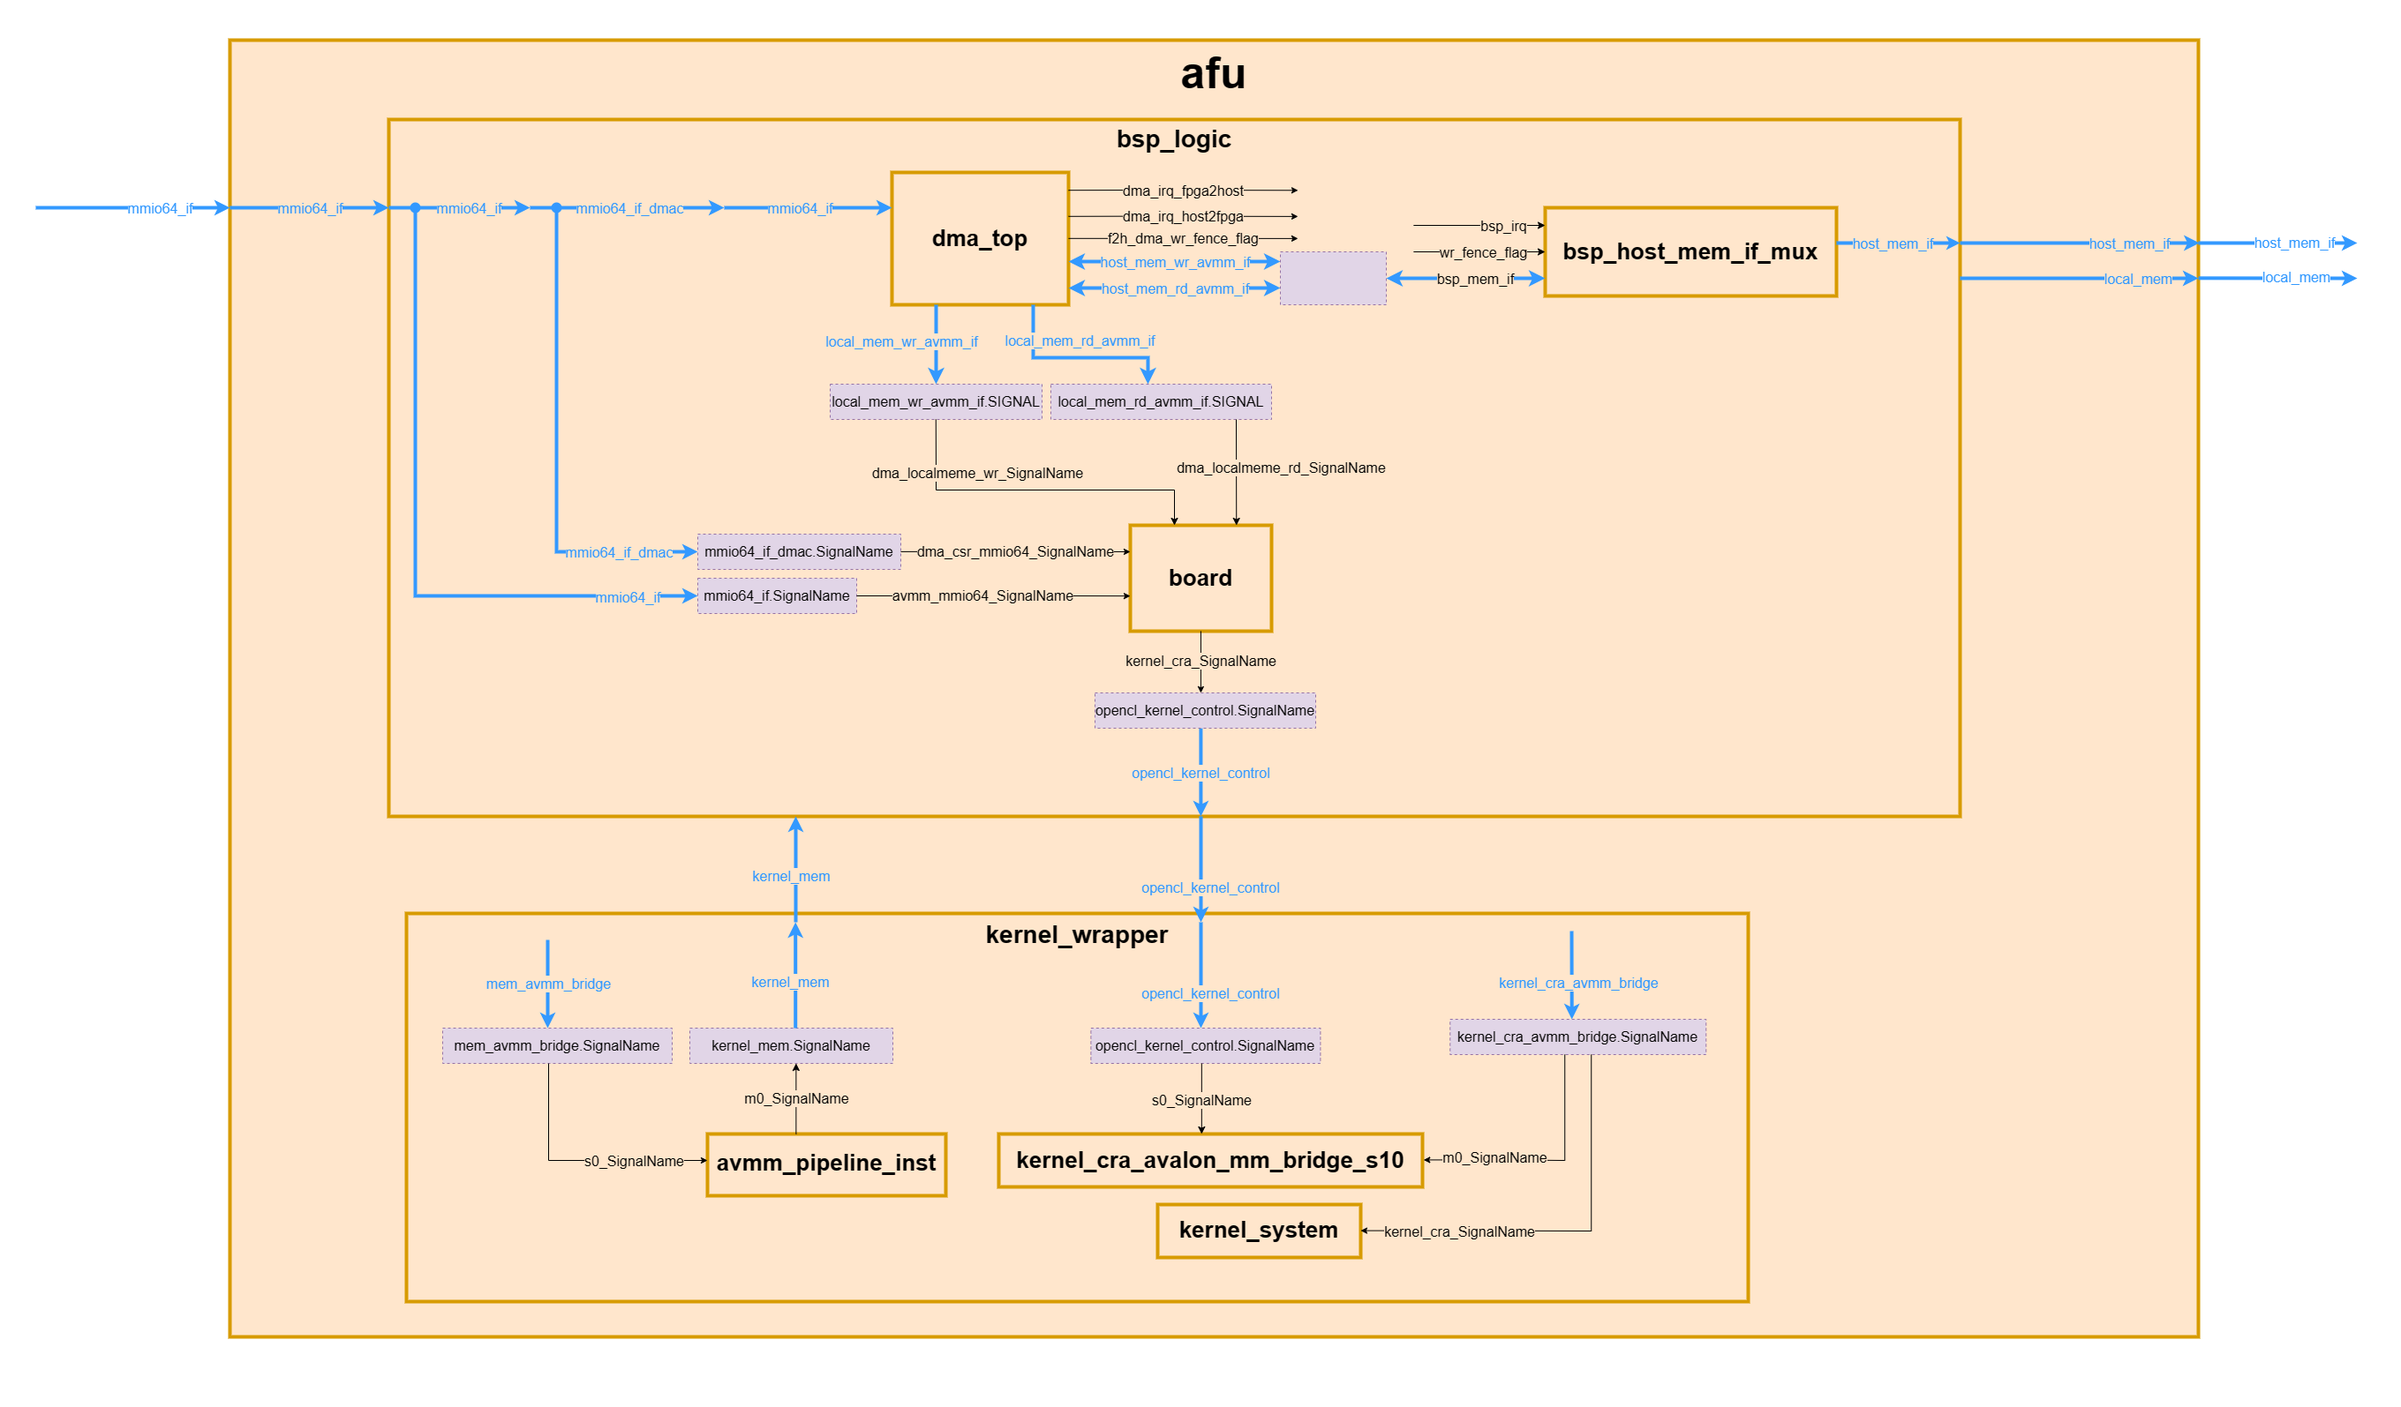
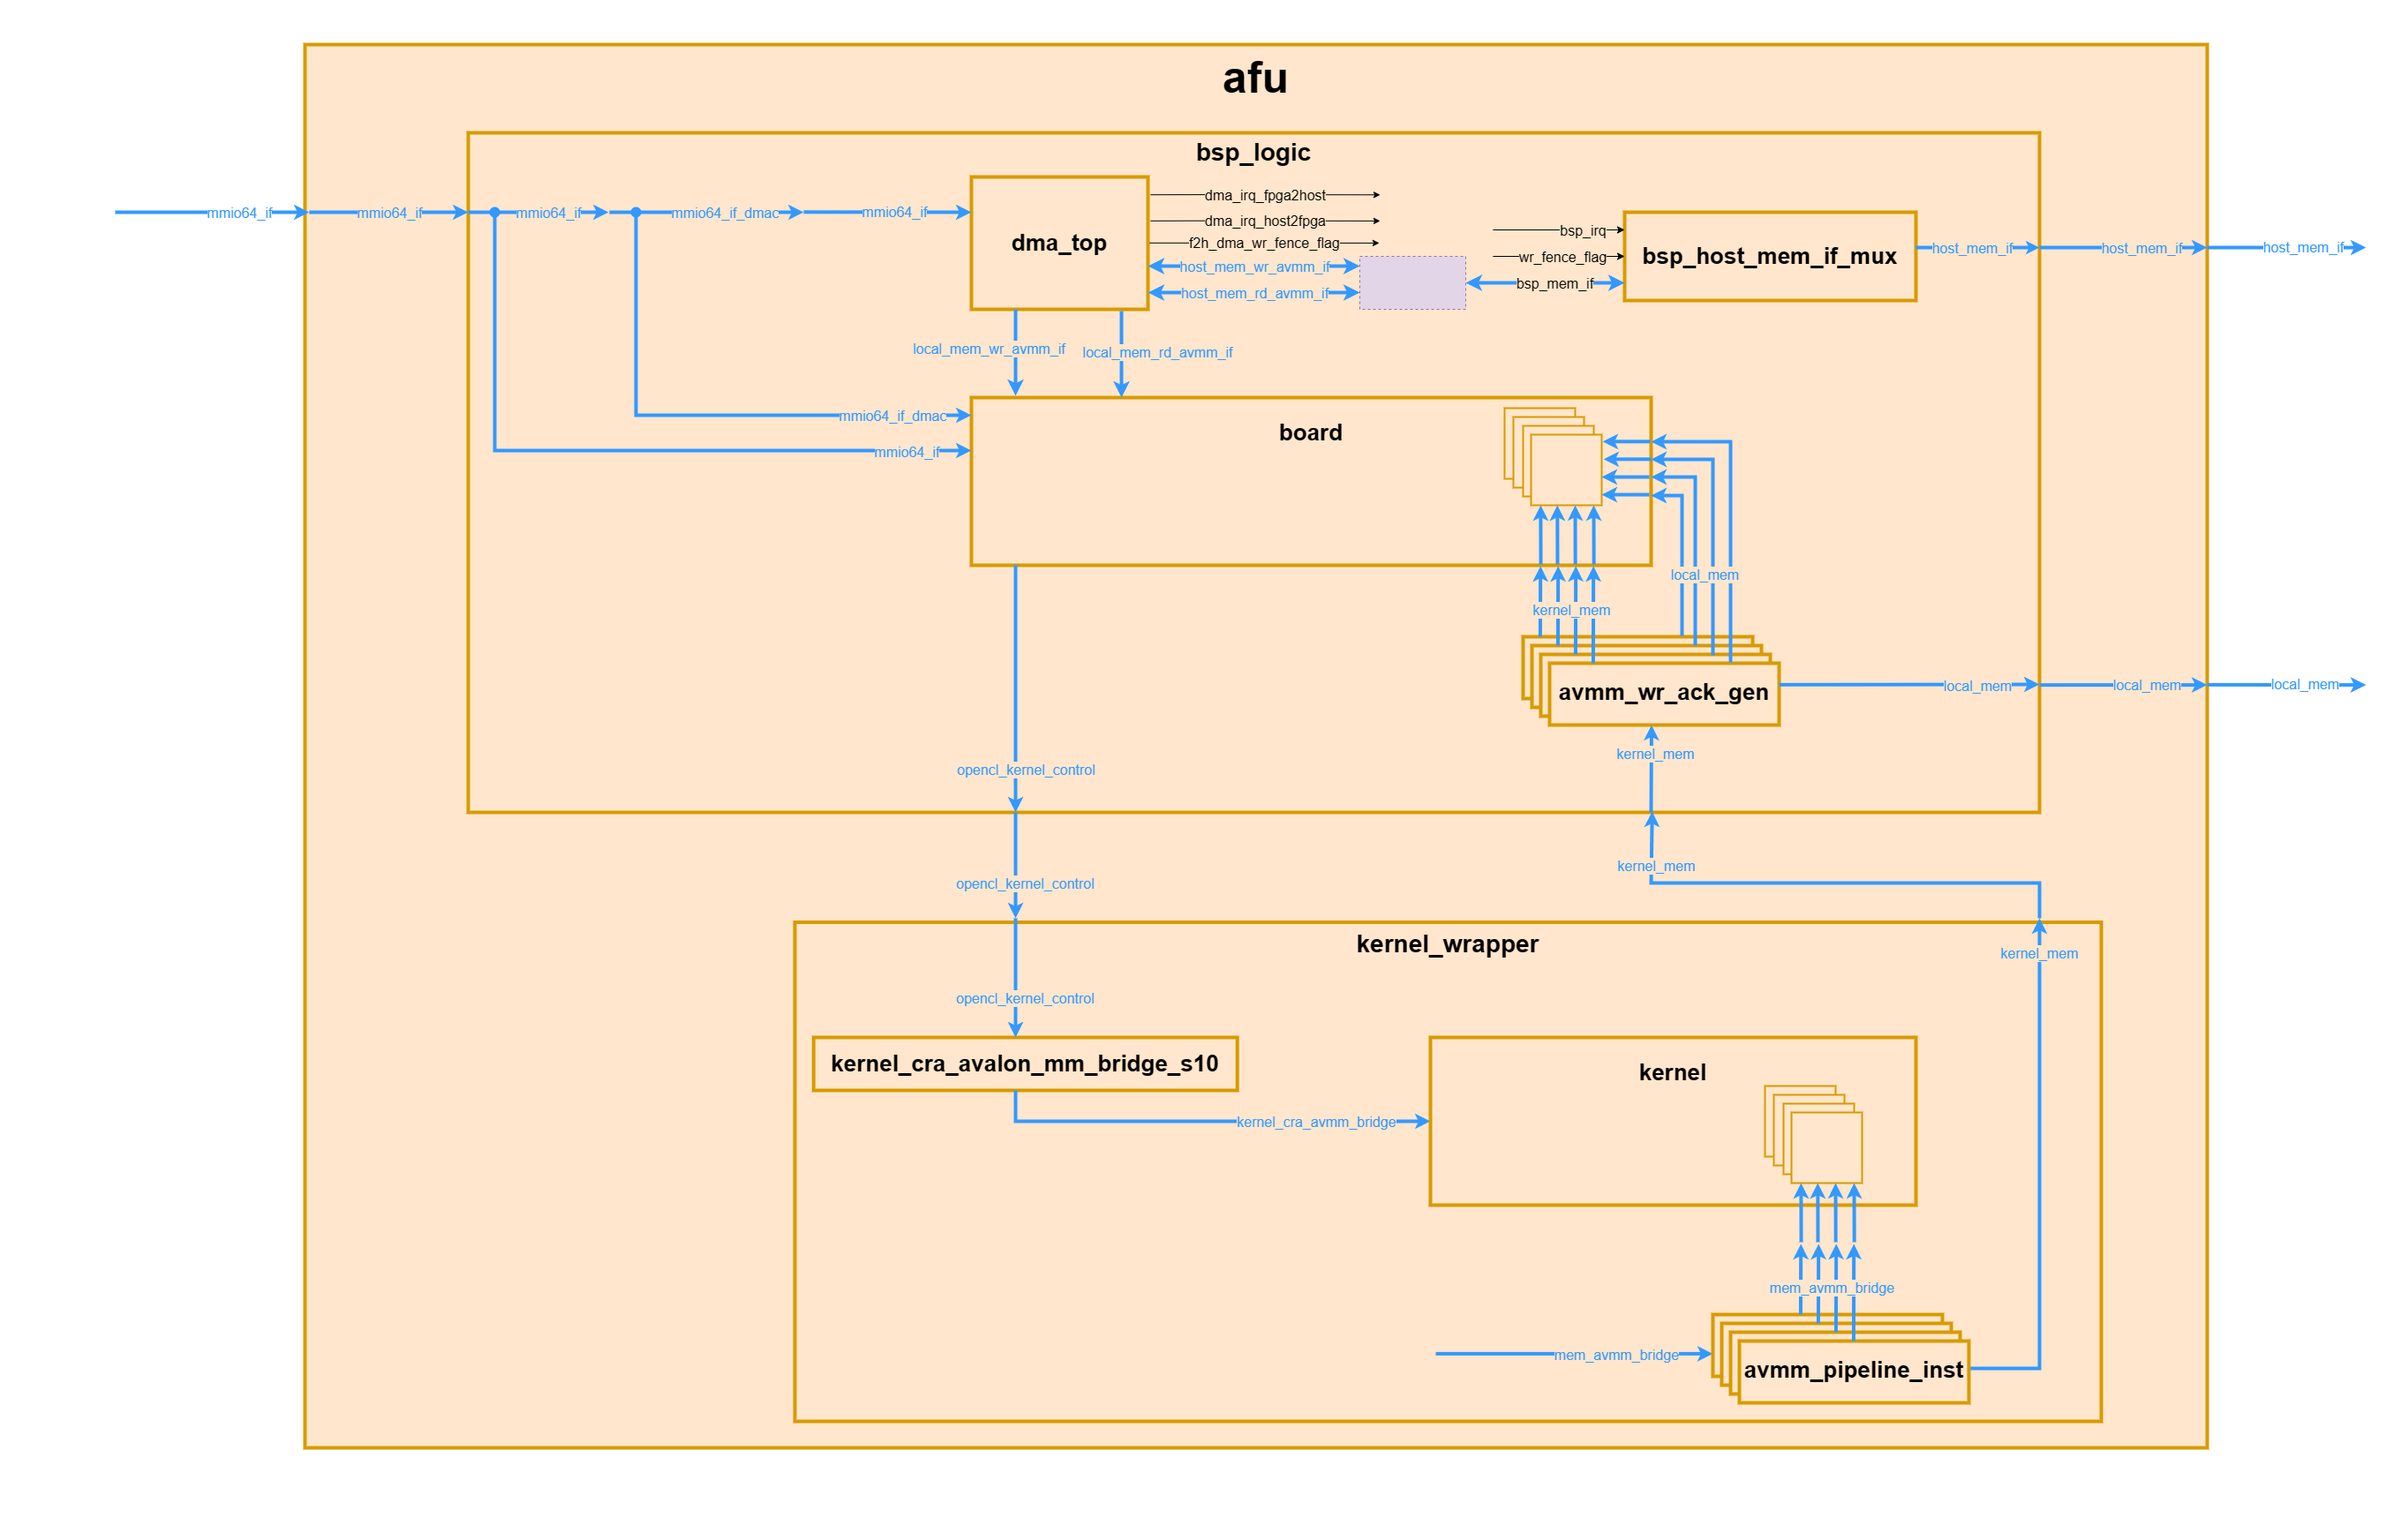
Update

Changed region(s): [[0.0312, 0.0, 1.0, 0.9831], [0.8438, 0.5837, 0.875, 0.6451]]

diff --git a/doc/arch_diagram.md b/doc/arch_diagram.md
@@ -7,6 +7,7 @@
   *  Il master ha sempre read, write, writedata e address come output per dire allo slave cosa fare, cosa scrivere ed a che indirizzo.
   * Lo slave ha come output sempre waitrequest, readdatavalid, readdata, writeresponsevalid per le risposte ai segnali di cui sopra.
 * In OFS e ASP, esiste una variante con "split read and write channel". Potresti trovare gli stessi segnali di un bus Avalon MM normale, ma replicati per due canali. Un canale di sola lettura (rd) e l'altro di sola scrittura (wr). Ovviamente il canale "rd" non avrà segnali per le scritture, e.g. write, writedata e writeresponsevalid, dato che non potrà usarli. Lo stesso vale per il canale "wr", che non avrà i segnali relativi alle scritture.
+* I prefissi s0 e m0 stanno esattamente per slave e master
 
 ## Diagram Legend
 * `Orange box`: Module
@@ -16,28 +17,20 @@
 * `Green box`: Module added with the #ifdef verification
 * `Green arrow`: Signal added with the #ifdef verification
 * `Thick green arrow`: Interface added with the #ifdef verification
-* `Dashed green box`:
 
-# ifdef Compilation Directive
-* INCLUDE_UDP_OFFLOAD_ENGINE
-* USE_MPF_VTP
-* INCLUDE_USM_SUPPORT
-* PAC_BSP_ENABLE_DDR4_BANKi
-* USE_KERNEL_IRQ
+## #ifdef Compilation Directive
+* base_arch_diagramm
+  * PAC_BSP_ENABLE_DDR4_BANK1/2/3/4
+  * USE_WRITEACKS_FOR_KERNELSYSTEM_LOCALMEMORY_ACCESSES
+* cdirective_arch_diagram
+  * PAC_BSP_ENABLE_DDR4_BANK1/2/3/4
+  * USE_WRITEACKS_FOR_KERNELSYSTEM_LOCALMEMORY_ACCESSES
+  * INCLUDE_UDP_OFFLOAD_ENGINE
+  * USE_MPF_VTP
+  * INCLUDE_USM_SUPPORT
+  * PAC_BSP_ENABLE_DDR4_BANKi
+  * USE_KERNEL_IRQ
 
-
-## Dubbi diagramma
-* Senza direttive di compilazione
-  * bsp_logic 
-      * modulo baord
-* Con direttive di compilazione
-  * bsp_logic
-      * riga 281 - 301  
-      * riga 377
-      * riga 382
-  * kernel_wrapper
-      * riga 23 (inserita nel diagramma)
-      * riga 170-180
-  * udp_offload_engine
-      * riga 47 --> va bene in input al tx ?
-      * riga 59 --> va bene in input all'rx ?
+# Dubbi
+* mem_if_vtp
+  * riga 72
